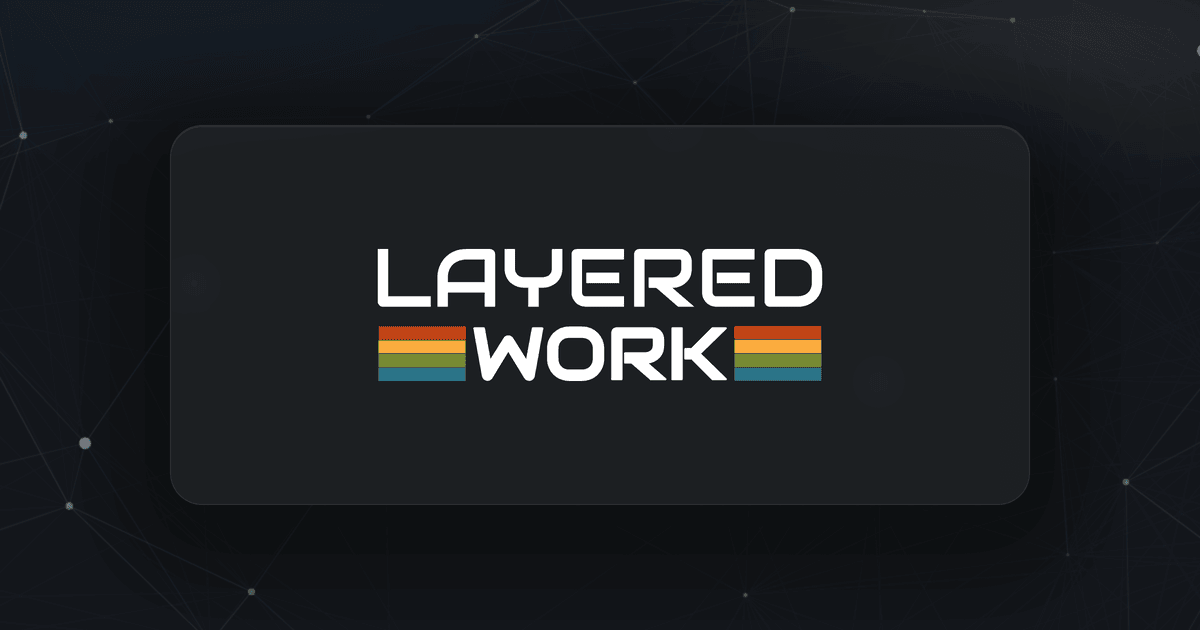
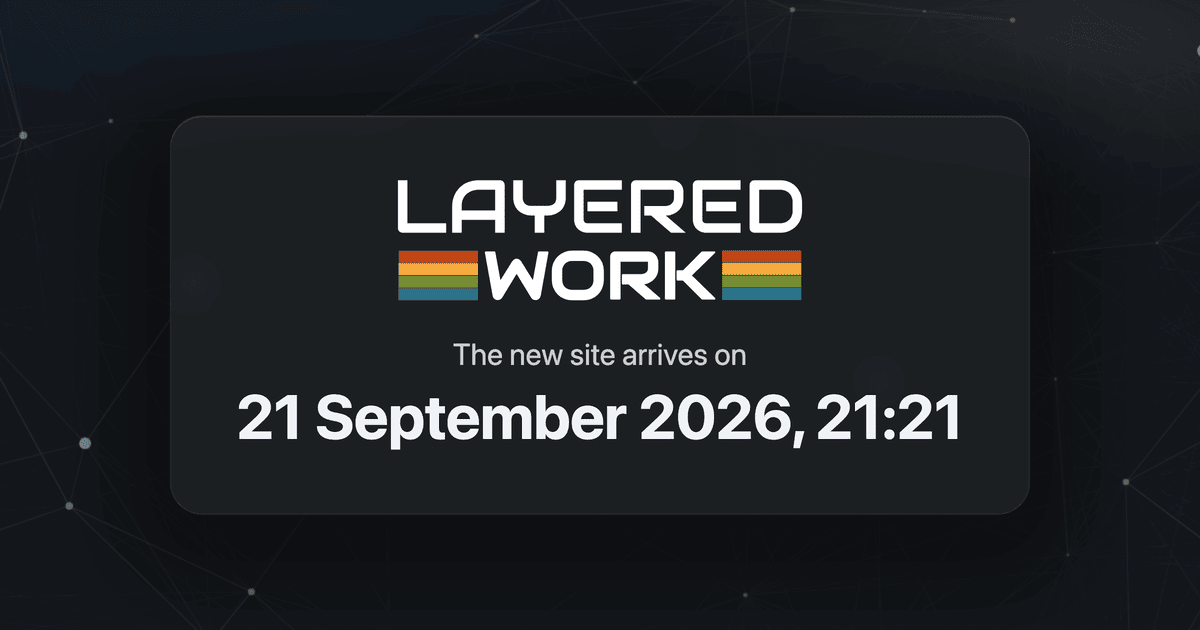
Feat: The site opens on 21 September at 21:21, and the preview says so (#119)
The new date reaches the clock, the sentence above it, the description a
search engine shows, the structured data and now the sharing image as well.

It is written once. The sentence a reader sees is formatted from the same
timestamp the countdown counts to, in Austria's own zone, so the two cannot
name different moments. Before this the date was typed twice, and it has
moved several times.

The sharing image gained the two lines under the wordmark. They are not
typed into the template either: tools/make-og.sh reads them out of the
built module and hands them to the page in the query string, so a date in
a picture, which is the copy nobody remembers to change, cannot go stale on
its own. That script now runs the build first, because everything it reads
comes out of it.

The lines the page and the image share moved into apps/website/src/site.ts,
which is what both can import. It starts nothing and touches no network, so
the render script can import it without standing a server up.

Measured on the rendered image: the content sits on the middle of the card
to the pixel, and the wordmark on the middle of the image to the pixel.

Changed region(s): [[0.185, 0.2714, 0.8017, 0.7238]]

diff --git a/apps/website/tools/og.html b/apps/website/tools/og.html
@@ -3,17 +3,19 @@
   The source of public/og.png, which is what appears when a link to this site is
   posted anywhere.
 
-  It carries the wordmark and nothing else. Every unfurler shows the title and
-  the description beside the picture, so words inside it would be the same words
-  twice, and they would be a second copy of the page's own copy: the launch date
-  moved five times whilst this page was being built, and a date baked into a
-  picture is the copy nobody remembers to change. A mark on its own background
-  is true before the launch and after it.
+  It carries the wordmark and the two lines that name the day the site opens.
 
-  Render it with tools/make-og.sh. That script takes the size from the page's
-  own og:image tags and opens a window of exactly that shape, so the 1200 by 630
-  written into the stylesheet below has to match: anything else is letterboxed
-  or clipped, which the very next render shows.
+  Neither line is typed here. The page has moved its launch date several times,
+  and a date baked into a picture is the copy nobody remembers to change, so
+  tools/make-og.sh reads both lines out of src/site.ts and hands them over in
+  the query string. Opening this file on its own therefore shows the mark
+  without them, which is not a fault: it means the words only ever come from the
+  one place that holds them.
+
+  That script also takes the size from the same module and opens a window of
+  exactly that shape, so the 1200 by 630 written into the stylesheet below has
+  to match. Anything else is letterboxed or clipped, which the very next render
+  shows.
 -->
 <html lang="en">
   <head>
@@ -68,7 +70,8 @@
         display: grid;
         place-items: center;
         width: 100%;
-        height: 380px;
+        padding: 64px;
+        text-align: center;
         background: color-mix(in oklab, oklch(0.262 0.008 250) 72%, transparent);
         border: 1px solid rgb(255 255 255 / 7%);
         border-radius: 32px;
@@ -76,10 +79,45 @@
         backdrop-filter: blur(14px);
       }
 
-      /* The file carries empty margin above and below the mark, which is 48.9
-         per cent of its height, so the element is sized from the optical height
-         wanted rather than the file being edited. */
-      .mark { display: block; width: auto; height: calc(132px / 0.489); }
+      /* The mark occupies 48.9 per cent of its file's height, with the rest as
+         empty bands above and below it. The element is sized from the height
+         the mark should look, and both bands are then taken back off, so what
+         the layout centres is the mark rather than the file around it. Leaving
+         them in put the whole stack 31 pixels below the middle of the card. */
+      .mark {
+        --mark-height: 120px;
+        --mark-share: 0.489;
+
+        display: block;
+        width: auto;
+        height: calc(var(--mark-height) / var(--mark-share));
+        margin-block: calc(
+          var(--mark-height) / var(--mark-share) * (var(--mark-share) - 1) / 2
+        );
+      }
+
+      /* Read at a third of this size in most link previews, so both lines are
+         set larger than they would be on the page. */
+      .lead {
+        margin-block-start: 34px;
+        font-family: "Barlow", ui-sans-serif, system-ui, sans-serif;
+        font-size: 30px;
+        line-height: 1.3;
+        color: oklch(0.845 0.008 250);
+      }
+      .date {
+        margin-block-start: 8px;
+        font-family: "Barlow Condensed", ui-sans-serif, system-ui, sans-serif;
+        font-size: 62px;
+        font-weight: 700;
+        line-height: 1.1;
+        letter-spacing: -0.008em;
+        color: oklch(0.963 0.008 250);
+        text-shadow: 0 -1px 0 rgb(0 0 0 / 42%);
+      }
+      /* Handed nothing, the page shows the mark alone rather than an empty gap
+         where a sentence should be. */
+      .lead:empty, .date:empty { display: none; }
     </style>
   </head>
   <body>
@@ -87,10 +125,26 @@
 
     <div class="stage">
       <div class="shadow"></div>
-      <main><img class="mark" src="../public/logo.svg" alt="" /></main>
+      <main>
+        <img class="mark" src="../public/logo.svg" alt="" />
+        <p class="lead" id="lead"></p>
+        <p class="date" id="date"></p>
+      </main>
     </div>
 
     <script>
+      /*
+       * The two lines under the mark, as make-og.sh handed them over.
+       *
+       * They are written as text rather than as markup, so whatever the copy
+       * grows into is a sentence in a paragraph and never a tag.
+       */
+      (() => {
+        const given = new URLSearchParams(window.location.search);
+        document.getElementById("lead").textContent = given.get("lead") ?? "";
+        document.getElementById("date").textContent = given.get("date") ?? "";
+      })();
+
       /*
        * One still frame of the web that turns behind the live page.
        *

diff --git a/apps/website/src/site.ts b/apps/website/src/site.ts
@@ -1,0 +1,110 @@
+/**
+ * What the site says about itself, and when it opens.
+ *
+ * Kept apart from the server because two things read it. The page is one. The
+ * other is `tools/make-og.sh`, which renders the sharing image offline and puts
+ * the same two lines under the wordmark, and which imports this module from the
+ * build. Nothing here starts a server or touches the network, so importing it
+ * costs nothing.
+ */
+
+/**
+ * When the site opens.
+ *
+ * Written with its offset rather than as a bare local time, because a countdown
+ * whose target depends on the reader's own clock counts to a different moment
+ * for every reader. Bregenz is UTC+2 in September.
+ */
+export const LAUNCH = "2026-09-21T21:21:00+02:00";
+
+/**
+ * The zone the site keeps time in.
+ *
+ * `Europe/Vienna` is the zone identifier covering the whole of Austria,
+ * Vorarlberg included. It names the rules rather than the city, so it is right
+ * here even though Bregenz is nowhere near Vienna.
+ */
+const SITE_TIMEZONE = "Europe/Vienna";
+
+/**
+ * The launch, written the way a reader reads it.
+ *
+ * Derived from `LAUNCH` rather than typed out beside it. The date has moved
+ * several times whilst this page was being built, and it is now read by the
+ * clock, by the sentence above it, by the description a search engine shows, by
+ * the structured data and by the sharing image. One of those would eventually
+ * be the one that kept the old date.
+ *
+ * Two formatters rather than one, because a single one joins the halves with
+ * the word `at` and this page joins them with a comma.
+ */
+export const LAUNCH_TEXT = ((): string => {
+  const moment = new Date(LAUNCH);
+  const day = new Intl.DateTimeFormat("en-GB", {
+    day: "numeric",
+    month: "long",
+    year: "numeric",
+    timeZone: SITE_TIMEZONE,
+  }).format(moment);
+  const time = new Intl.DateTimeFormat("en-GB", {
+    hour: "2-digit",
+    minute: "2-digit",
+    hour12: false,
+    timeZone: SITE_TIMEZONE,
+  }).format(moment);
+  return `${day}, ${time}`;
+})();
+
+/**
+ * Where this site answers.
+ *
+ * Stated once and used for the canonical link, every sharing tag, the robots
+ * file and the sitemap, so all the absolute addresses the page publishes are
+ * the same address.
+ */
+export const SITE_ORIGIN = "https://layered.work";
+
+/**
+ * What the site is about, in one phrase.
+ *
+ * It opens the first line on the page, it follows the name in the title, and it
+ * opens the sharing text, so it is written here once rather than three times.
+ */
+export const TAGLINE = "Enclosures, circuit boards and software";
+
+/**
+ * The line above the date, on the page and in the sharing image alike.
+ *
+ * Named on its own because the description of the sharing image quotes it, and
+ * a description quoting words the picture does not carry is worse than one that
+ * says less.
+ */
+const LEAD = "The new site arrives on";
+
+/** Every line the page shows, in the order it shows them. */
+export const COPY = {
+  eyebrow: "Bregenz, Austria",
+  lead: LEAD,
+  date: LAUNCH_TEXT,
+  tagline: TAGLINE,
+  body: [`${TAGLINE}, made layer by layer.`, "The posts and projects are moving into a new home."],
+  units: ["Days", "Hours", "Minutes", "Seconds"],
+  open: "It is time.",
+  contact: "Until then, I'm reachable at",
+  logoLabel: "layered.work",
+  author: "phranck",
+  shareAlt: `The layered.work wordmark on a dark field of fine lines, with a line beneath it reading "${LEAD} ${LAUNCH_TEXT}".`,
+} as const;
+
+/**
+ * The sentence given to a search engine and to anything that unfurls a link.
+ *
+ * Built from the same lines the page shows, so what a reader finds in a result
+ * list is what they then read on the page.
+ */
+export const DESCRIPTION = `${COPY.body[0]} ${COPY.lead} ${COPY.date}.`;
+
+/** The sharing image, wanted by the tags on the page and by the file that makes it. */
+export const SHARE_IMAGE = "/og.png";
+export const SHARE_IMAGE_WIDTH = 1200;
+export const SHARE_IMAGE_HEIGHT = 630;

diff --git a/apps/website/src/index.ts b/apps/website/src/index.ts
@@ -16,27 +16,19 @@ import { extname, join, normalize, resolve } from "node:path";
 import { fileURLToPath } from "node:url";
 import { COUNTDOWN_SCRIPT } from "./countdown.js";
 import { SCENE_SCRIPT } from "./scene.js";
+import {
+  COPY,
+  DESCRIPTION,
+  LAUNCH,
+  SHARE_IMAGE,
+  SHARE_IMAGE_HEIGHT,
+  SHARE_IMAGE_WIDTH,
+  SITE_ORIGIN,
+  TAGLINE,
+} from "./site.js";
 
 const PORT = Number(process.env.PORT ?? 3000);
 const HOST = process.env.HOST ?? "0.0.0.0";
-
-/**
- * When the site opens.
- *
- * Written with its offset rather than as a bare local time, because a countdown
- * whose target depends on the reader's own clock counts to a different moment
- * for every reader. Bregenz is UTC+2 in September.
- */
-const LAUNCH = "2026-09-20T20:20:00+02:00";
-
-/**
- * Where this site answers.
- *
- * Stated once and used for the canonical link, every sharing tag, the robots
- * file and the sitemap, so all the absolute addresses the page publishes are
- * the same address.
- */
-const SITE_ORIGIN = "https://layered.work";
 
 /**
  * The page colour, in the two forms the page needs.
@@ -73,41 +65,6 @@ const ASSETS: Record<string, { type: string; maxAge: number }> = {
   ".svg": { type: "image/svg+xml", maxAge: ONE_DAY_SECONDS },
   ".png": { type: "image/png", maxAge: ONE_DAY_SECONDS },
 };
-
-/**
- * What the site is about, in one phrase.
- *
- * It opens the first line on the page, it follows the name in the title, and it
- * opens the sharing text, so it is written here once rather than three times.
- */
-const TAGLINE = "Enclosures, circuit boards and software";
-
-const COPY = {
-  eyebrow: "Bregenz, Austria",
-  lead: "The new site arrives on",
-  date: "20 September 2026, 20:20",
-  tagline: TAGLINE,
-  body: [`${TAGLINE}, made layer by layer.`, "The posts and projects are moving into a new home."],
-  units: ["Days", "Hours", "Minutes", "Seconds"],
-  open: "It is time.",
-  contact: "Until then, I'm reachable at",
-  logoLabel: "layered.work",
-  author: "phranck",
-  shareAlt: "The layered.work wordmark over a dark field of fine lines.",
-} as const;
-
-/**
- * The sentence given to a search engine and to anything that unfurls a link.
- *
- * Built from the same lines the page shows, so what a reader finds in a result
- * list is what they then read on the page.
- */
-const DESCRIPTION = `${COPY.body[0]} ${COPY.lead} ${COPY.date}.`;
-
-/** The name of the sharing image, wanted by the tags and by the file that makes it. */
-const SHARE_IMAGE = "/og.png";
-const SHARE_IMAGE_WIDTH = 1200;
-const SHARE_IMAGE_HEIGHT = 630;
 
 /**
  * Escapes a value going into a double-quoted HTML attribute.
